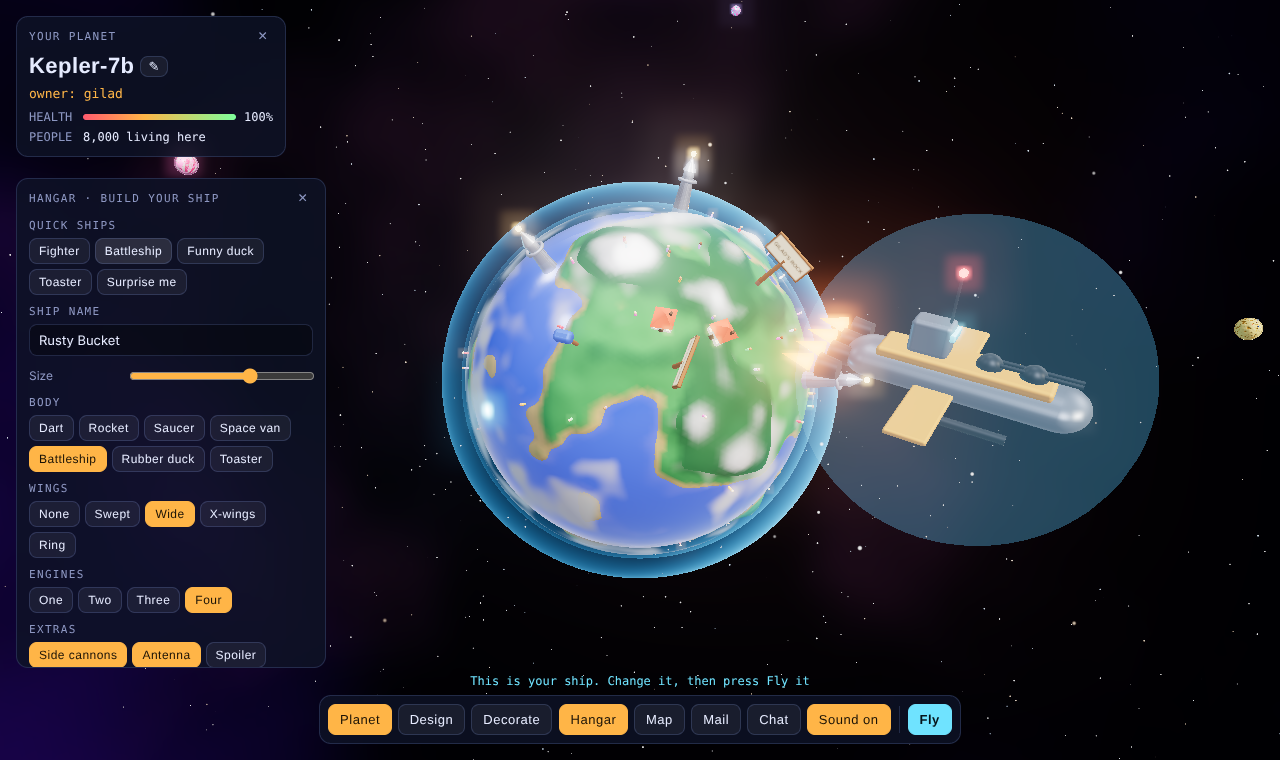
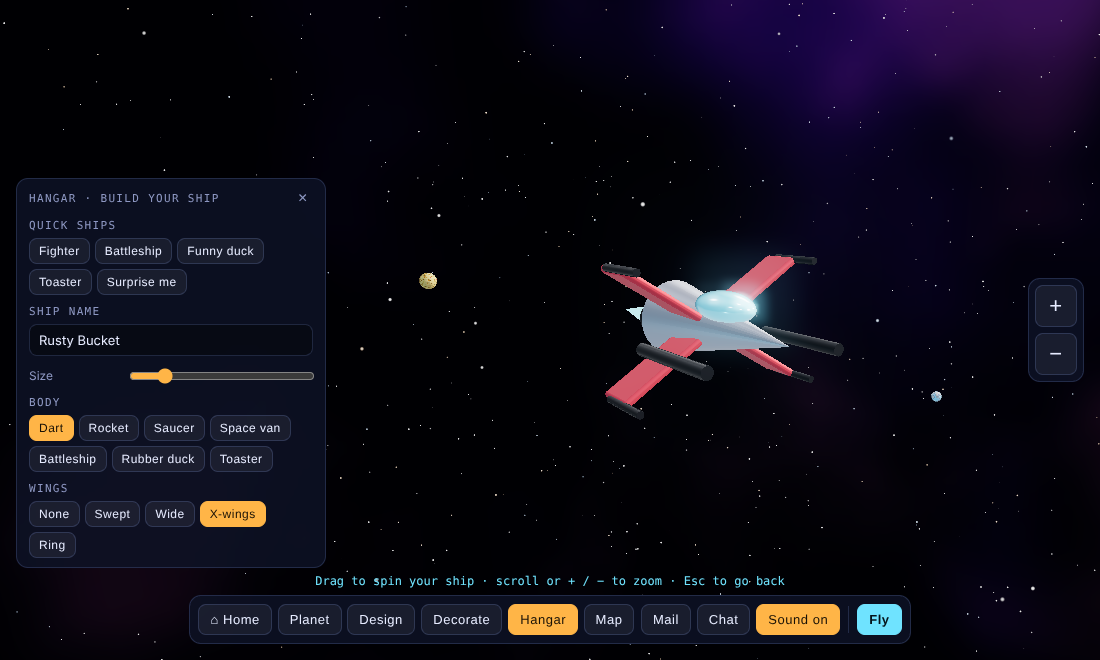
Expose camera to test hook; refresh screenshots
Claude-Session: https://claude.ai/code/session_01C8YoLFqAawXFtS9Kv7wpoQ

diff --git a/game/index.html b/game/index.html
@@ -2128,7 +2128,7 @@ function frame() {
 buildWorld(); buildShip(); renderDesign(); renderHangar(); renderMail(); renderChat(); renderInfo(); renderPanels();
 { const dist = viewDistance(); camera.position.set(0, dist * .22, dist); }
 renderer.setAnimationLoop(frame);
-window.__tp = { get view() { return view; }, get mode() { return mode; }, get state() { return state; }, get planets() { return planets; }, ship, keys, fireWeapon, setNav, vel, aimNdc, head };
+window.__tp = { camera, get view() { return view; }, get mode() { return mode; }, get state() { return state; }, get planets() { return planets; }, ship, keys, fireWeapon, setNav, vel, aimNdc, head };
 </script>
 </body>
 </html>
